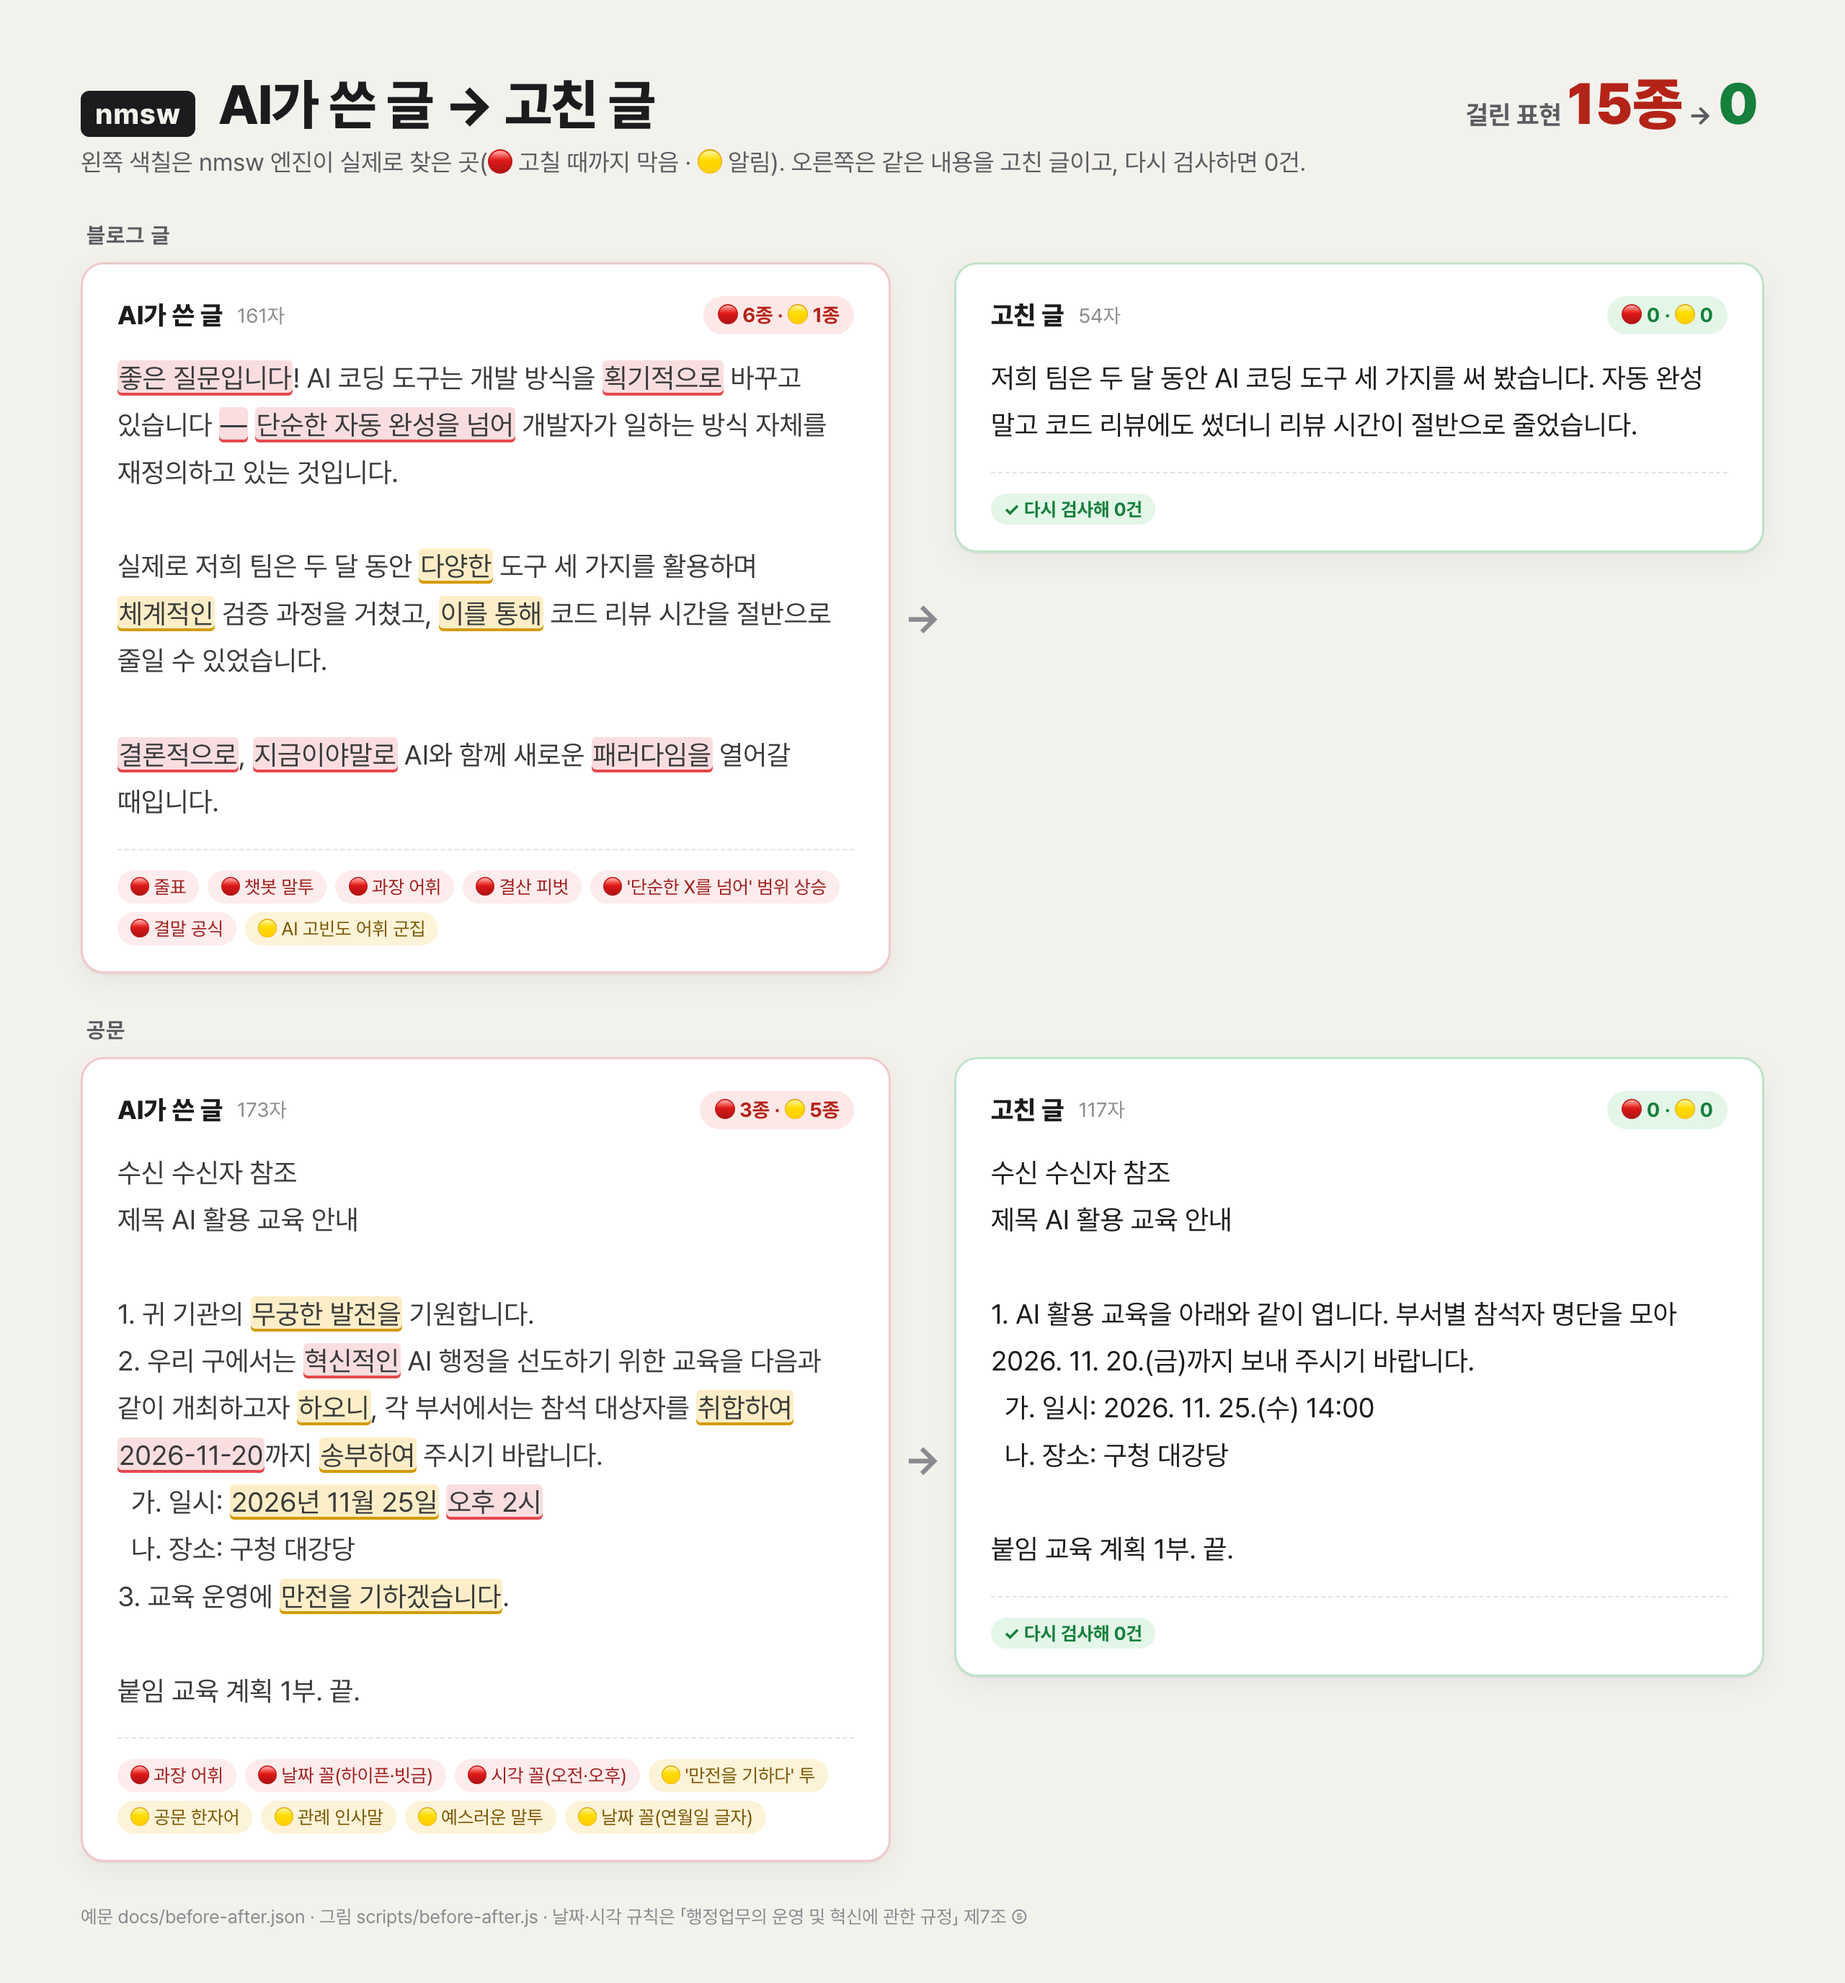
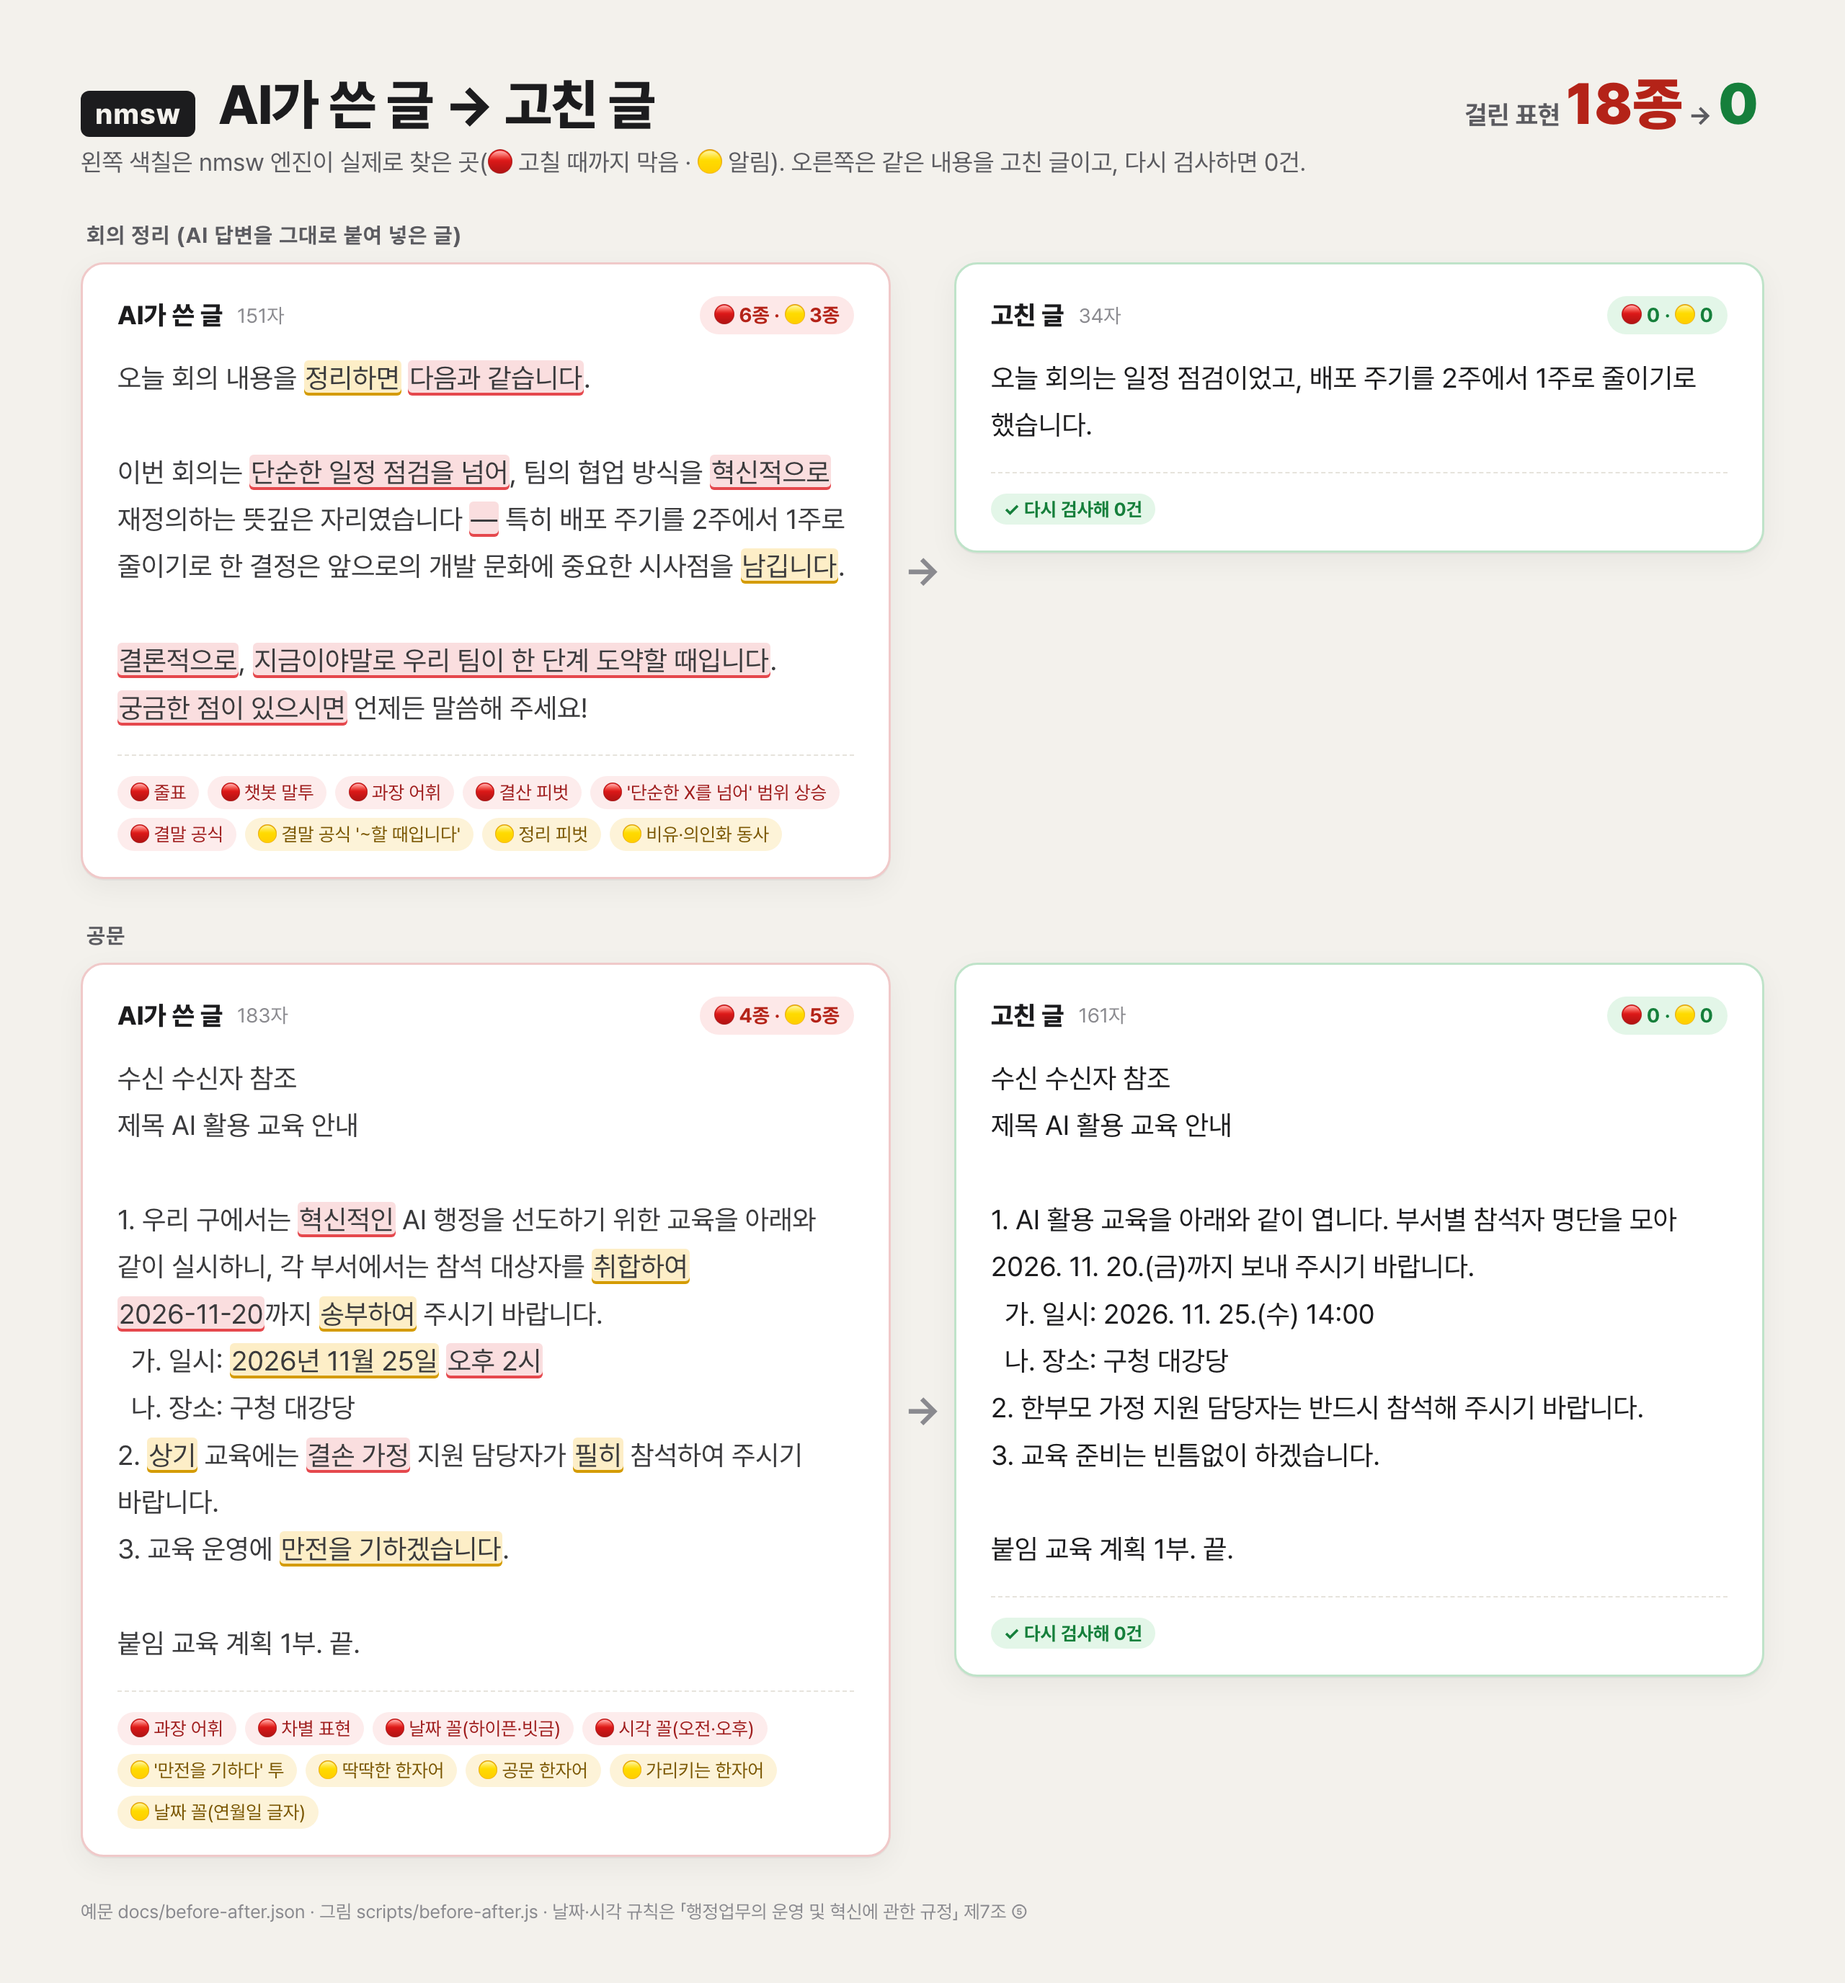
docs: README 예시를 한 줄 전후 표와 실제 경고 메시지로, 비교 그림 예문 교체
- README 위쪽: 잡는 문장 예 11줄(AI 문장 → 고친 문장 → 판정), Claude 가 받는 실제 메시지
- 비교 그림: 회의 정리(AI 답변 그대로 붙인 글)와 공문, 걸린 표현 18종 → 0
- 그림 색칠: 짧은 표시는 줄 끝에서 안 갈라지게, 끝 빈칸은 안 칠함
- gongmun.js: 대외 공문 관행인 「무궁한 발전을 기원」 인사 규칙 뺌(근거 없음 확인)

diff --git a/engine/gongmun.js b/engine/gongmun.js
@@ -1,7 +1,7 @@
 /**
  * nmsw 공문서 규칙. 형식은 rules.js 와 같음: [정규식, 이름, 대신 쓸 말, 단계, 최소 건수, 범위, 제외 정규식]
  *
- * PUBLIC_RULES: 어느 글이든 검사(공공언어 순화어·차별 표현·관례 인사·예스러운 말투)
+ * PUBLIC_RULES: 어느 글이든 검사(공공언어 순화어·차별 표현·예스러운 말투)
  * FORM_RULES: 공문·개조식 보고서로 보일 때만 검사(날짜·시각 표기)
  *
  * 근거
@@ -10,7 +10,7 @@
  * - 같은 규정 시행규칙 제4조 ⑤ 본문 마지막 글자에서 한 글자 띄우고 「끝」
  * - 온점 뒤 띄어쓰기(2026. 11. 15.)는 한글 맞춤법 문장 부호 규정의 예시 꼴
  * - 순화어: 문화체육관광부·행정안전부 행정용어 순화어 목록(2012), 국립국어원 다듬은 말
- * 관례 인사·예스러운 말투는 nmsw 자체 규칙(실제 공문 5건에서 확인한 버릇)
+ * 예스러운 말투는 nmsw 자체 규칙. 「귀 기관의 무궁한 발전을 기원합니다」 같은 인사는 대외 공문 관행이라 검사하지 않음(26-11-15 근거 없음 확인 뒤 뺌)
  */
 // slop-gate: off
 
@@ -29,8 +29,7 @@ const PUBLIC_RULES = [
   [/시달(?:하|한|함|합|된|됨|사항)|하달/g, '권위적 표현', '알림 · 전달', 2],
   // 가리키는 한자어: 상기(위)·하기(아래)·동(同)·당해(그)·기(旣)·적의(알맞게). 다른 뜻(상기하다, 하기 위해, 당해 내다)과 갈리게 뒤에 오는 말을 좁힘
   [/상기(?:와 같이|의| (?!하|시키|시켜|해|했|되)(?=[가-힣]))|하기(?:와 같이| (?:사항|내용|표|일정|장소|기간))|(?:^|[\s(])동 (?:사업|기관|법|조|건|위원회|계획|규정|조례|시설|단체|협회|법인)|당해 ?(?:연도|년도|사업|기관|지역|학교|업무|사항|법인|공무원|토지|건물|시설|기간|회계|직원|부서|공사|계약)|(?:^|[\s(*])기 (?:시행|발표|제출|통보|지급|납부|등록|승인|추진|구축|선정|배정|수립|보고|완료|확보|설치|발송|구매|계약|운영)|적의 (?:조치|처리|판단|활용|반영)/gm, '가리키는 한자어', '위 · 아래 · 이(그) · 그 · 이미 · 알맞게', 2],
-  // ── 공문 관례: 실제 공문에 흔하지만 뜻이 없는 인사와 예스러운 말투
-  [/무궁한 (?:발전|번영)|(?:발전|번영)을 기원합니다/g, '관례 인사말', '지우고 바로 용건(관련 문서·목적)부터', 2],
+  // ── 예스러운 말투
   [/하오니|하옵|하였사오니|사료(?:됩니다|되오니|됨|된다)/g, '예스러운 말투', '~하니 · ~하므로 · 판단합니다', 2],
 ];
 

diff --git a/scripts/before-after.js b/scripts/before-after.js
@@ -39,6 +39,7 @@ function spans(text, hits) {
       const lead = m[0].length - m[0].trimStart().length; // (?:^|\s) 로 시작하는 규칙의 앞 공백은 칠하지 않음
       let e = m.index + m[0].length;
       if (/[가-힣]$/.test(m[0])) while (/[가-힣]/.test(text[e] || '')) e += 1; // 「만전을 기|하겠습니다」처럼 낱말 중간에서 끊기지 않게
+      while (e > m.index && /\s/.test(text[e - 1])) e -= 1; // 「상기 」처럼 끝 빈칸은 칠하지 않음
       out.push({ s: m.index + lead, e, tier: h.tier, name: h.name });
     }
   }
@@ -58,7 +59,8 @@ function marked(text, sp) {
   let html = '';
   let i = 0;
   for (const x of sp) {
-    html += esc(text.slice(i, x.s)) + `<mark class="t${x.tier}">${esc(text.slice(x.s, x.e))}</mark>`;
+    const short = x.e - x.s <= 14 ? ' nw' : ''; // 짧은 표시는 줄 끝에서 갈라지지 않게(2026-11-|20)
+    html += esc(text.slice(i, x.s)) + `<mark class="t${x.tier}${short}">${esc(text.slice(x.s, x.e))}</mark>`;
     i = x.e;
   }
   return html + esc(text.slice(i));
@@ -127,6 +129,7 @@ body{padding:48px 56px}
 .after p{color:#1c1c1e}
 .before p{color:#3a3a3c}
 mark{border-radius:3px;padding:1px 1px;color:inherit}
+mark.nw{white-space:nowrap}
 mark.t1{background:rgba(229,72,77,.18);box-shadow:inset 0 -2px 0 #e5484d}
 mark.t2{background:rgba(245,176,0,.22);box-shadow:inset 0 -2px 0 #d49b00}
 .card footer{display:flex;flex-wrap:wrap;gap:6px;margin-top:16px;padding-top:14px;border-top:1px dashed #e6e3dc}

diff --git a/test/run.js b/test/run.js
@@ -72,7 +72,7 @@ const CASES = [
   ['기 시행 중인 사업은 제외합니다.', 2, '가리키는'],
   ['독립운동가의 의거를 기린다.', 0, '딱딱한'],
   ['법 제7조에 의거하여 처리합니다.', 2, '딱딱한'],
-  ['귀 기관의 무궁한 발전을 기원합니다.', 2, '관례 인사'],
+  ['귀 기관의 무궁한 발전을 기원합니다.', 0, '인사'], // 대외 공문 관행이라 검사 안 함
   ['개최하고자 하오니 협조 바랍니다.', 2, '예스러운'],
   ['사료를 주문했습니다.', 0, '예스러운'],
 ];

diff --git a/README.md b/README.md
@@ -1,10 +1,41 @@
 # nmsw: no more slop words
 
-한국어 AI 말투(슬롭)를 Claude Code 안에서 검사하는 훅 묶음. 판정 엔진 하나를 네 시점에서 같이 씀.
+한국어 AI 말투(슬롭)를 Claude Code 안에서 검사하는 훅 묶음. Claude 가 쓴 답변·파일·커밋에서 아래 같은 문장을 찾아 고치게 함.
 
-![AI가 쓴 글과 고친 글 비교: 블로그 글과 공문에서 걸린 표현 15종이 0건으로](docs/before-after.png)
+![AI가 쓴 글과 고친 글 비교: 회의 정리와 공문에서 걸린 표현 18종이 0건으로](docs/before-after.png)
 
 왼쪽 색칠과 건수는 엔진 결과 그대로(`node scripts/before-after.js` 로 다시 만듦, 예문 `docs/before-after.json`). 오른쪽 고친 글은 같은 엔진으로 다시 검사해 0건.
+
+## 잡는 문장 예
+
+| AI가 쓰는 문장 | 고친 문장 | 판정 |
+|---|---|---|
+| `좋은 질문이에요! 차근차근 살펴보겠습니다.` | (지우고 바로 답) | 🔴 챗봇 말투 |
+| `예리한 지적이십니다!` | (지우고 바로 답) | 🔴 아첨 |
+| `이 앱은 단순한 메모장을 넘어 생각을 정리하는 도구입니다.` | 이 앱은 메모를 쓰고 정리하는 도구입니다. | 🔴 `단순한 X를 넘어` |
+| `배포 속도가 획기적으로 빨라졌습니다.` | 배포 시간이 12분에서 3분으로 줄었습니다. | 🔴 과장 어휘(실제 숫자로) |
+| `빠릅니다 — 그리고 정확합니다.` | 빠르고 정확합니다. | 🔴 줄표 |
+| `결론적으로, 지금이야말로 AI를 도입할 때입니다.` | AI 도입을 권합니다. | 🔴 결산·결말 공식 |
+| `로그를 대시보드에 꽂아 두었습니다.` | 로그를 대시보드에 연결했습니다. | 🔴 비유 동사 |
+| `회의를 통해 다양한 인사이트를 얻었습니다.` | 회의에서 새로 안 점을 정리했습니다. | 🔴 과장 어휘 |
+| `결손 가정 학생을 지원합니다.` | 한부모 가정 학생을 지원합니다. | 🔴 차별 표현 |
+| `익일까지 자료를 취합하여 송부 바랍니다.` | 다음 날까지 자료를 모아 보내 주시기 바랍니다. | 🟡 행정 한자어 |
+| 공문 안의 `회의: 2026-11-20 오후 2시` | 회의: 2026. 11. 20.(금) 14:00 | 🔴 공문 날짜·시각 |
+
+## Claude 가 받는 메시지
+
+Claude 가 파일을 저장하면 바로 아래 메시지가 Claude 에게 돌아가고, Claude 가 같은 턴에 고쳐 다시 저장함. 실제 출력:
+
+```
+[윤문게이트] release-note.md: AI 슬롭 말투 5종. 사용자 문장 인용·고유명사·법령 원문·글자 그대로 쓰는 뜻이면 두고, 아니면 고쳐서 다시 저장
+🔴 줄표 1건 · "기적으로 빨라졌습니다 — 결론적으로, 지금이야말로 전환" → 마침표로 끊거나 쉼표. 부제는 : 또는 ·
+🔴 과장 어휘 1건 · "데이트로 배포 속도가 획기적으로 빨라졌습니다 — 결론적" → 숫자·사실로
+🔴 결산 피벗 1건 · "으로 빨라졌습니다 — 결론적으로, 지금이야말로 전환할" → 지우기
+🔴 결말 공식 1건 · "니다 — 결론적으로, 지금이야말로 전환할 때입니다." → 평서로 닫기
+🟡 결말 공식 '~할 때입니다' 1건 · "로, 지금이야말로 전환할 때입니다." → 결론 꼴이면 평서로(「저장할 때」 같은 말 그대로면 둠)
+```
+
+## 검사 시점
 
 | 시점 | 훅 | 동작 |
 |---|---|---|
@@ -50,10 +81,10 @@ node ~/.claude/nmsw/scripts/setup.js --auto-update --agents
 - 모든 글에서 검사
   - 차별 표현(🔴): `장애우`, `결손 가정`, `미망인`, `학부형`, `살색` 등과 장애 비하 비유. 직함 속 글자(`구청장님`)는 제외
   - 행정 한자어·일본어 투(🟡): `익일`은 다음 날, `상기`는 위, `만전을 기하다`는 빈틈없이 하다, `취합`은 모음, `제고`는 높임, `시건장치`는 잠금장치. 문화체육관광부·행정안전부 행정용어 순화어 목록(2012)과 국립국어원 다듬은 말 기준
-  - 공문 관례(🟡): `귀 기관의 무궁한 발전을 기원합니다` 같은 인사말, `하오니`·`사료됩니다` 같은 예스러운 말투
+  - 예스러운 말투(🟡): `하오니`·`사료됩니다`. `귀 기관의 무궁한 발전을 기원합니다` 같은 인사는 대외 공문 관행이라 검사 안 함
 - 공문·보고서로 판단할 때만 검사: 수신·제목·(경유)·붙임·「끝.」·시행·결재 칸 가운데 둘 이상, 또는 □·○ 로 시작하는 줄 셋 이상
   - 날짜·시각(「행정업무의 운영 및 혁신에 관한 규정」 제7조 ⑤): `2026-11-15`·`오후 2시` 는 🔴, `2026.11.15.`(붙여 씀)·`2026. 11. 15`(끝 온점 빠짐)·`2026년 11월 15일`·`14시 30분` 은 🟡. 바른 꼴은 `2026. 11. 15.(일) 14:30`
-- 실측(2026-11-15, 실제 공문 5건·보고서 4건): `제고` 14건, `취합` 6건, 붙여 쓴 날짜 4건, `무궁한 발전` 인사 2건, `하오니` 1건, `기 발표대회` 1건. 사람 글 379편에서는 `학부형` 1건, `취합` 1건
+- 실측(2026-11-15, 실제 공문 5건·보고서 4건): `제고` 14건, `취합` 6건, 붙여 쓴 날짜 4건, `하오니` 1건, `기 발표대회` 1건. 사람 글 379편에서는 `학부형` 1건, `취합` 1건
 
 ## 커밋 검사 범위
 
@@ -70,7 +101,7 @@ npm test   # 엔진 시험 + 훅 시험 + README·NOTICE 🔴 검사
 node test/bench.js <사람.jsonl> <AI.jsonl> --promote   # 오탐 실측
 ```
 
-엔진 803개(어휘 사전 맞는 예·틀린 예, 규칙 사례), 훅 58개(합성 입력으로 막음·알림·무응답 확인). 규칙을 바꾸면 `npm test` 통과 뒤 커밋.
+엔진 807개(어휘 사전 맞는 예·틀린 예, 규칙 사례, 비교 그림 예문), 훅 58개(합성 입력으로 막음·알림·무응답 확인). 규칙을 바꾸면 `npm test` 통과 뒤 커밋.
 
 ## 오탐 실측 (2026-11-15)
 
